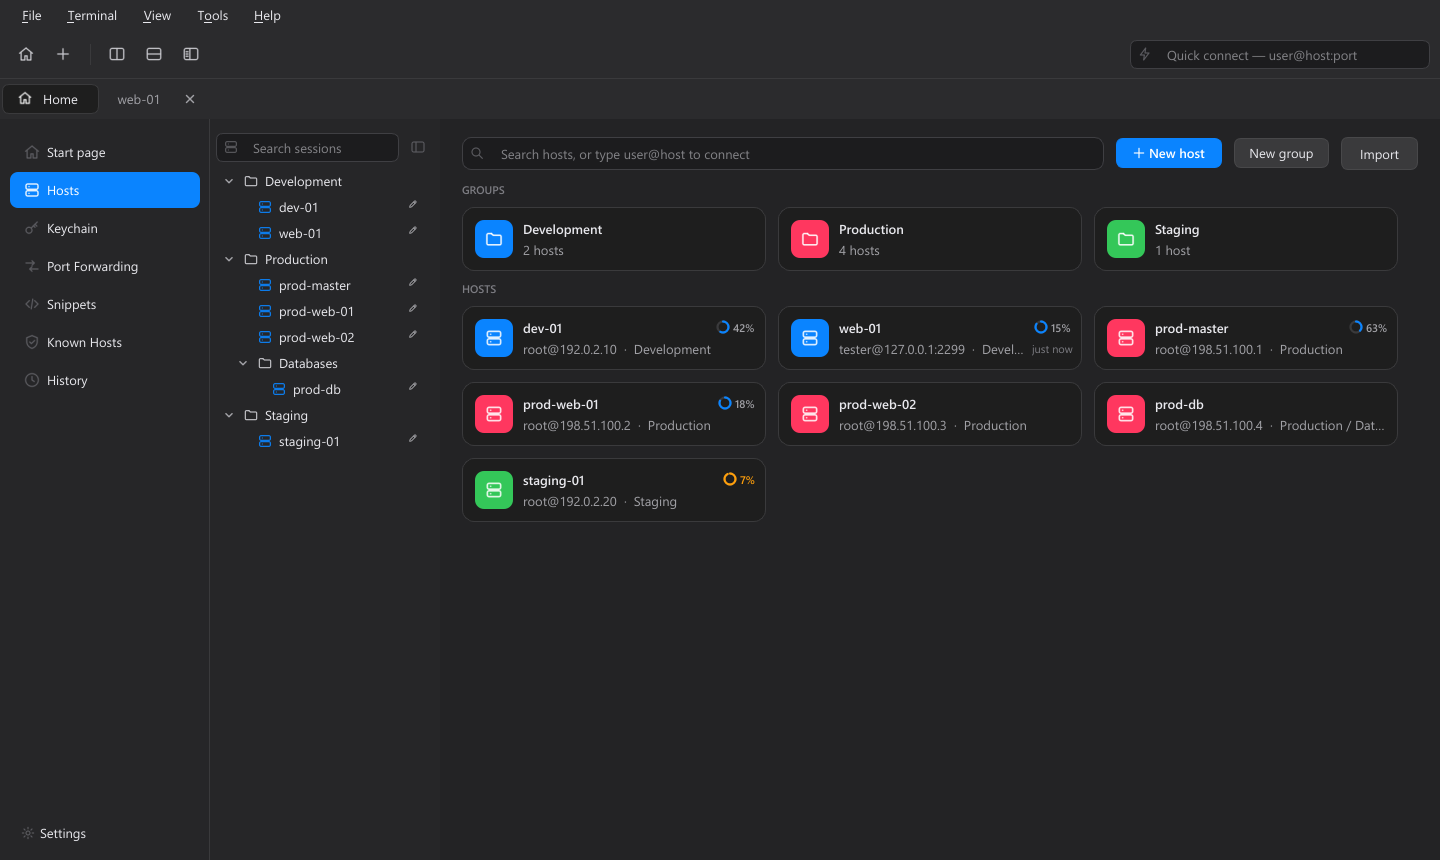
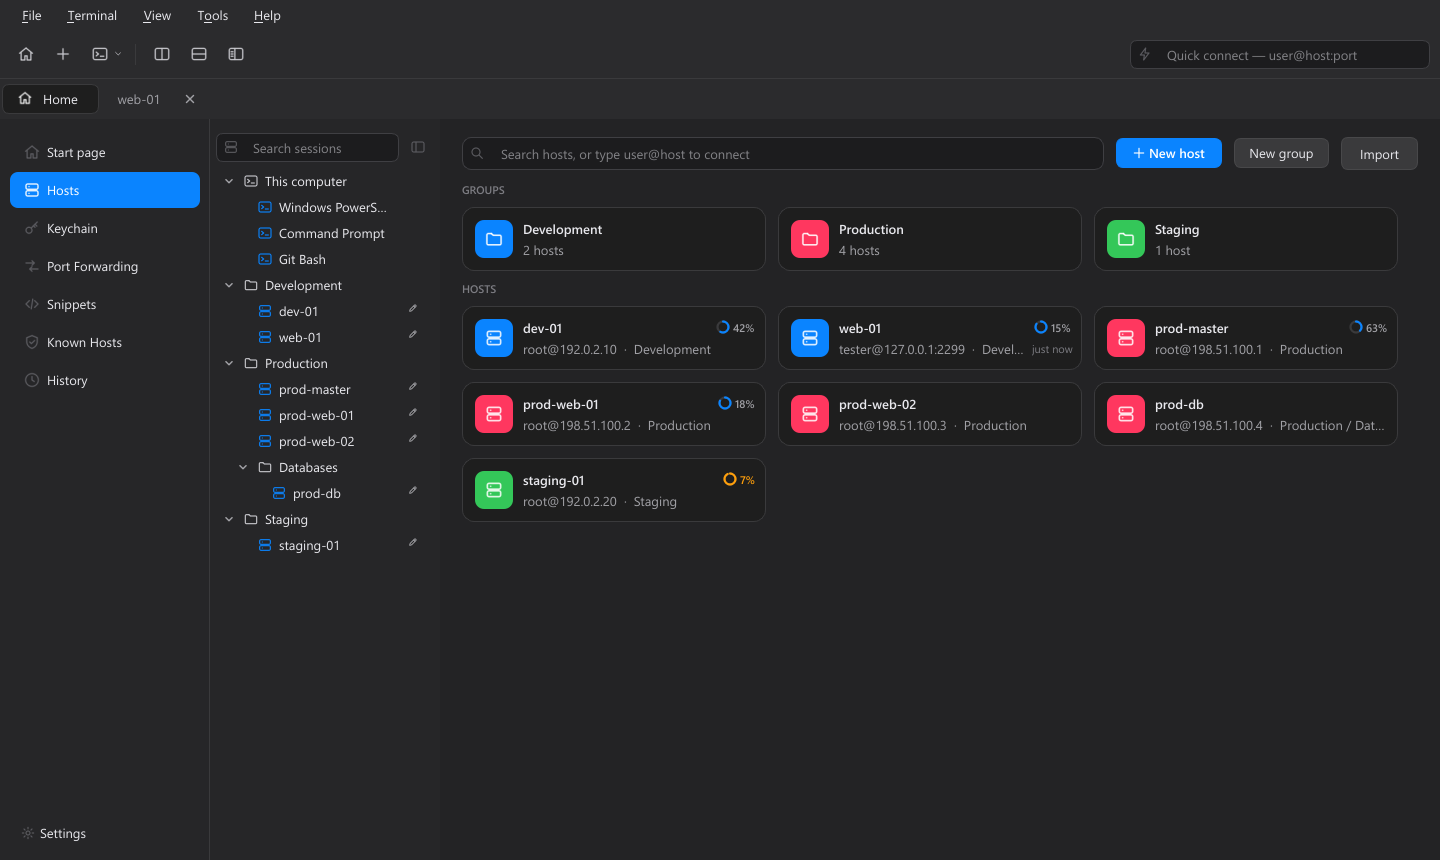
README: local terminals; screenshots with the terminal button

Changed region(s): [[0.1562, 0.2116, 0.25, 0.6349], [0.0625, 0.0605, 0.1562, 0.0907]]

diff --git a/README.ko.md b/README.ko.md
@@ -37,6 +37,7 @@
 - **🖱 양방향 드래그 앤 드롭** — 탐색기/Finder에서 끌어다 놓으면 업로드, 원격 파일을 폴더 창이나 바탕화면으로 끌면 그 위치로 다운로드됩니다. 이미 있는 파일은 덮어쓰기 전에 묻습니다(덮어쓰기 / 건너뛰기 / 취소). 진행률과 취소를 지원하는 백그라운드 전송이며, 열 너비를 조절하면 기억합니다. 폴더 다운로드는 폴더 링크를 안전하게 따라가고(순환 없음, 서버를 멈추게 하는 FIFO·장치 파일은 열지 않음), 설정한 기준(기본 1 GB 또는 파일 1만 개)보다 크면 먼저 묻습니다.
 - **✏ 원격 파일 로컬 편집** — 더블클릭하면 평소 쓰는 프로그램으로 열리고, 저장하면 다시 업로드할지 물어봅니다(내용이 실제로 바뀐 경우에만). "연결 프로그램" 선택도 지원합니다.
 - **🪟 탭과 화면 분할** — 같은 연결에서 좌우·상하로 분할하고, 분할 창은 클릭 한 번으로 닫습니다. 분할 창의 제목 표시줄이나 탭을 창 밖으로 끌면 별도 창이 되고, 그 창을 터미널 위로 옮기면 다시 붙습니다. 분리한 창에도 메인과 같은 메뉴·툴바와 그 창만의 파일 탐색기가 있고, 탐색기는 창마다 따로 접고 펼칩니다. 작업 표시줄, 전체 화면·관리자 권한 프로그램, 설정에서 지정한 프로그램 위에서는 떼어 내지 않습니다. 창 폭이 바뀌면 긴 줄을 새 폭에 맞게 다시 나눕니다.
+- **💻 로컬 터미널** — Windows의 PowerShell·명령 프롬프트·WSL·Git Bash, macOS의 로그인 셸을 서버처럼 탭으로 엽니다(터미널 버튼, ▾로 셸 선택, 세션 목록의 *내 컴퓨터*). 옆에 내 PC 파일 탐색기가 붙어 셸 위치와 서로 따라가고, 서버 탐색기와 서로 끌어 놓으면 업로드·다운로드됩니다. 삭제는 휴지통으로 이동합니다. 셸은 *파일 → 새 로컬 터미널 (셸 선택) → 로컬 터미널…*에서 직접 추가할 수 있습니다.
 - **🔀 포트 포워딩** — 로컬(`-L`), 원격(`-R`), 동적 SOCKS4/5(`-D`). 세션 접속 시 함께 열거나, 터미널 없이 터널로 계속 띄워 둘 수 있습니다(자동 시작·자동 재연결·실시간 연결 수 표시).
 - **🪜 점프 호스트** — 하나 이상의 경유 서버(ProxyJump)를 거쳐 접속합니다. 터미널과 터널 모두 지원합니다.
 - **🔐 선택형 마스터 비밀번호** — 기본은 꺼짐. 켜면 저장된 비밀번호와 키 암호를 마스터 비밀번호로 암호화(AES-256-GCM + scrypt)하고, 한 번만 보여 주는 복구 키와 미사용 시 자동 잠금을 제공합니다.

diff --git a/README.md b/README.md
@@ -41,6 +41,7 @@ No account required. Free and open source (GPL-3.0).
 - **🖱 Drag & drop both ways** — drop files from Explorer or Finder to upload; drag remote files onto a folder window or the desktop to download there. Asks before overwriting a file that already exists (overwrite / skip / cancel). Background transfers with progress and cancel; resizable columns that remember their widths. Folder downloads follow folder links safely (no loops, never opening FIFOs or devices that would hang the server) and ask first when they get bigger than your limit (1 GB or 10,000 files by default).
 - **✏ Edit remote files locally** — double-click to open in your usual app; save and JeopsokHeyou offers to upload the change (only when the content really changed). "Open with…" is built in.
 - **🪟 Tabs & split panes** — split left/right or top/bottom on the same connection, close any pane with one click. Drag a pane's title bar or a tab out of the window to give it a window of its own, and move that window back over a terminal to dock it again. Each separate window has the same menus and toolbar and a file explorer of its own, shown or hidden per window. Tearing off is held back over the taskbar, full-screen and administrator programs, and any program you list in Settings. Long lines re-wrap when a pane gets wider or narrower.
+- **💻 Local terminals** — PowerShell, Command Prompt, WSL and Git Bash on Windows, your login shell on macOS, in tabs like any server (the terminal button, ▾ for the shell, or *This computer* in the session list). This computer's files sit next to it and follow the shell's folder both ways; drag files between them and a server's explorer to upload or download. Deleting moves to the Recycle Bin (Trash). Add your own shells in *File → New local terminal with → Local terminals…*.
 - **🔀 Port forwarding** — local (`-L`), remote (`-R`) and dynamic SOCKS4/5 (`-D`) forwards, opened with a session or kept running on their own as tunnels with autostart, automatic reconnect and live connection counts.
 - **🪜 Jump hosts** — connect through one or more bastion servers (ProxyJump), for terminals and tunnels alike.
 - **🔐 Optional master password** — off by default; when on, saved passwords and key passphrases are encrypted with it (AES-256-GCM + scrypt), with a one-time recovery key and auto-lock when idle.
